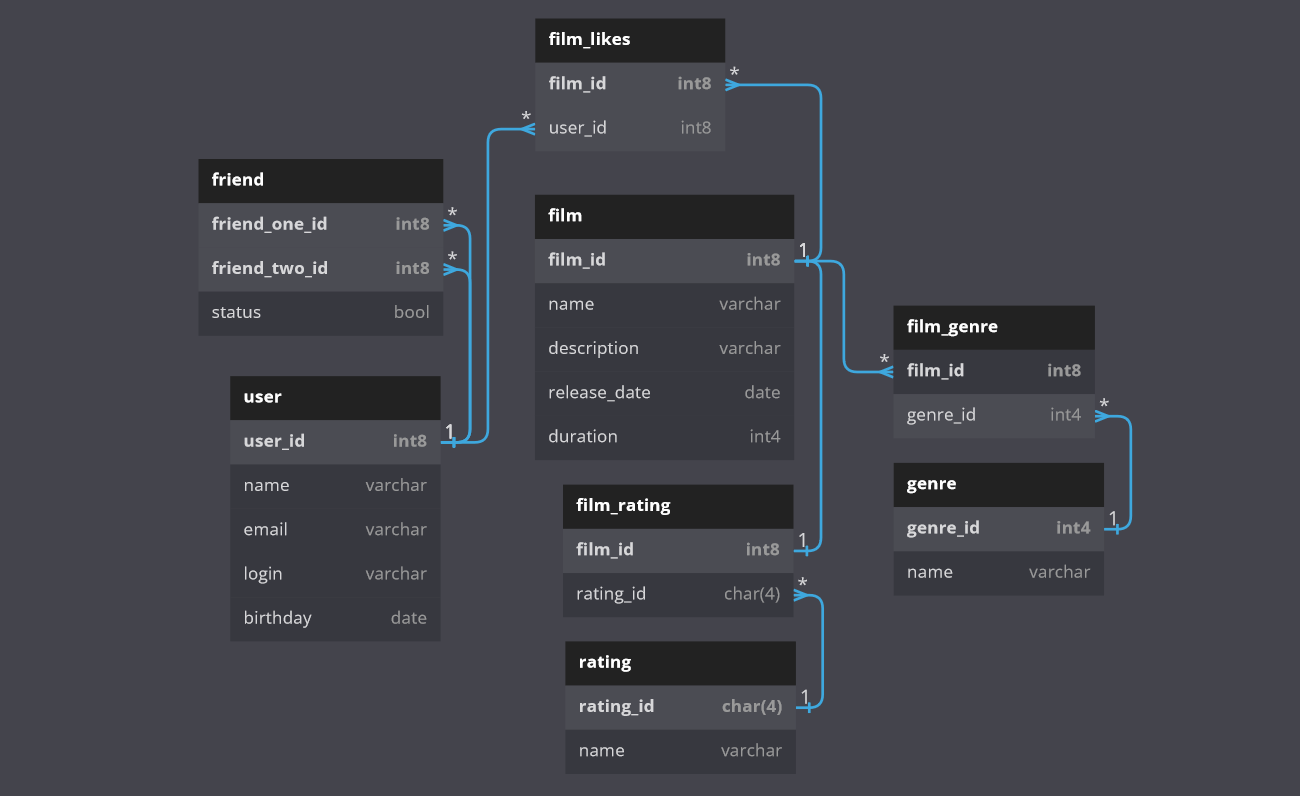
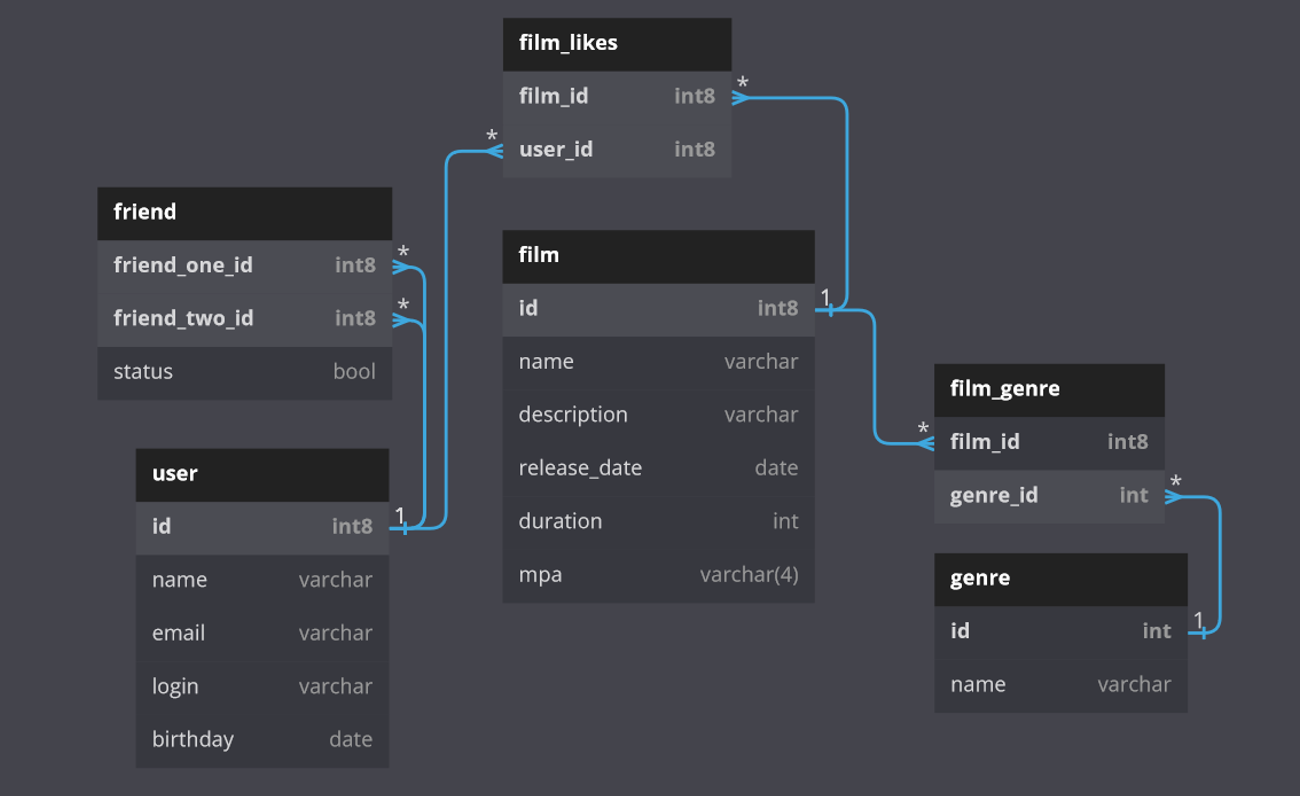
fix: изменить README.md

diff --git a/README.md b/README.md
@@ -51,11 +51,10 @@
 SELECT name, 
     description, 
     release_date, 
-    duration 
+    duration,
+    mpa
 FROM film 
-WHERE film_id=1
-GROUP BY name 
-ORDER BY name;
+WHERE film_id=1;
 ```
 **Получение данных о пользователе**
 ```
@@ -64,7 +63,5 @@ SELECT name,
     login, 
     birthday 
 FROM user
-WHERE user_id=1
-GROUP BY name 
-ORDER BY name;
+WHERE user_id=1;
 ```
